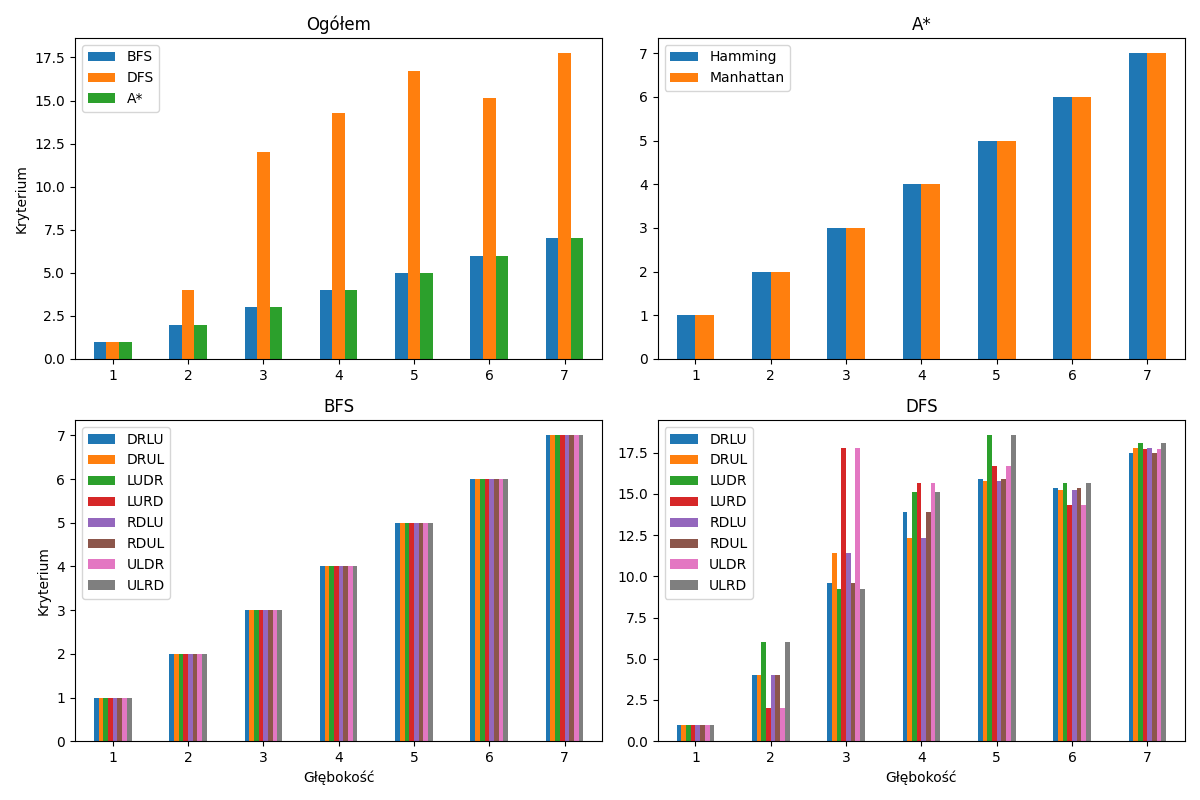
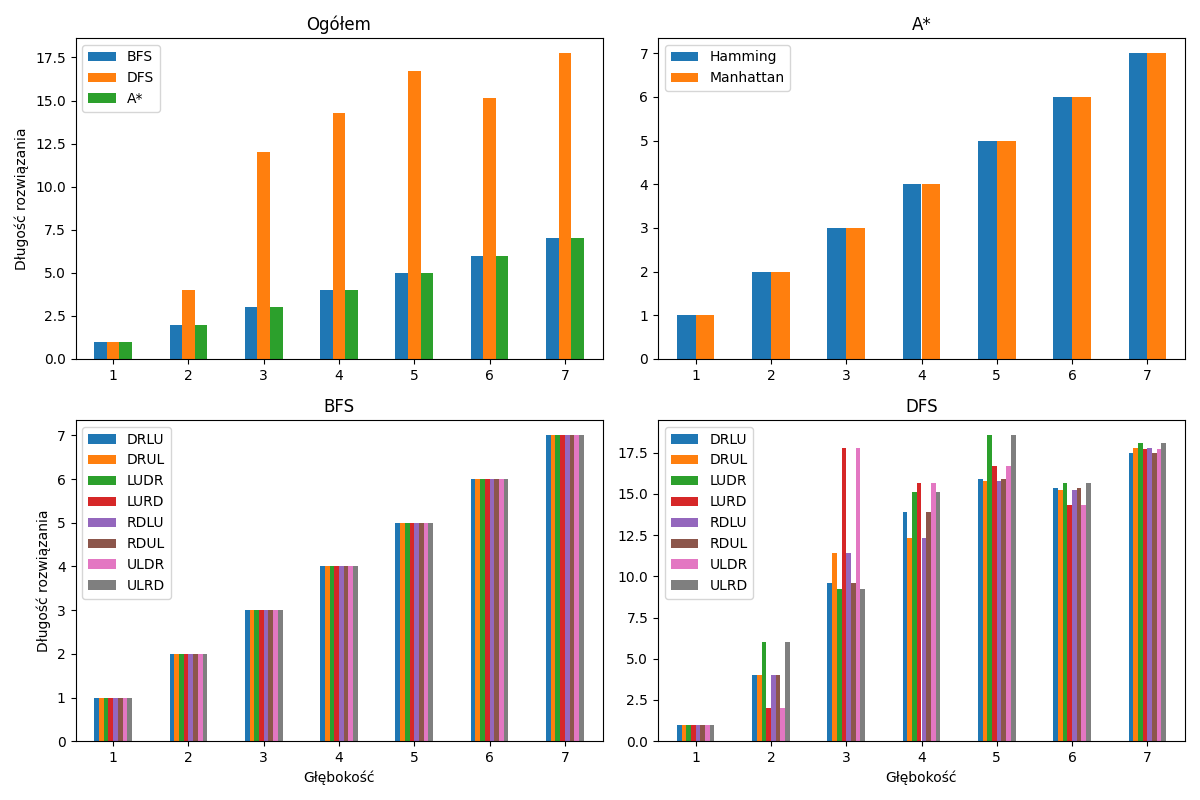
Fixes + update charts

diff --git a/main.py b/main.py
@@ -1,7 +1,7 @@
 from util.parser import *
 
 from util.program_modes import verify_all_mode, test_all_mode, default_mode, generate_charts_mode, \
-    test_number_of_fails_mode, rerun_dfs
+    test_number_of_fails_mode
 
 if __name__ == '__main__':
     args = parse_args()
@@ -9,8 +9,6 @@ if __name__ == '__main__':
 
     if args.mode == "test_all":
         test_all_mode()
-    elif args.mode == "rerun_dfs":
-        rerun_dfs()
     elif args.mode == "verify_all":
         verify_all_mode()
     elif args.mode == "generate_charts":

diff --git a/util/charts.py b/util/charts.py
@@ -85,7 +85,7 @@ def plot_criterion(df, column, title, filename):
         bfs_summary.columns = [c.upper() for c in bfs_summary.columns]
         bfs_summary.plot(kind='bar', ax=ax)
     ax.set_title('BFS')
-    ax.set_ylabel('Kryterium')
+    ax.set_ylabel(title)
     ax.set_xlabel('Głębokość')
     ax.tick_params(axis='x', rotation=0)
 
